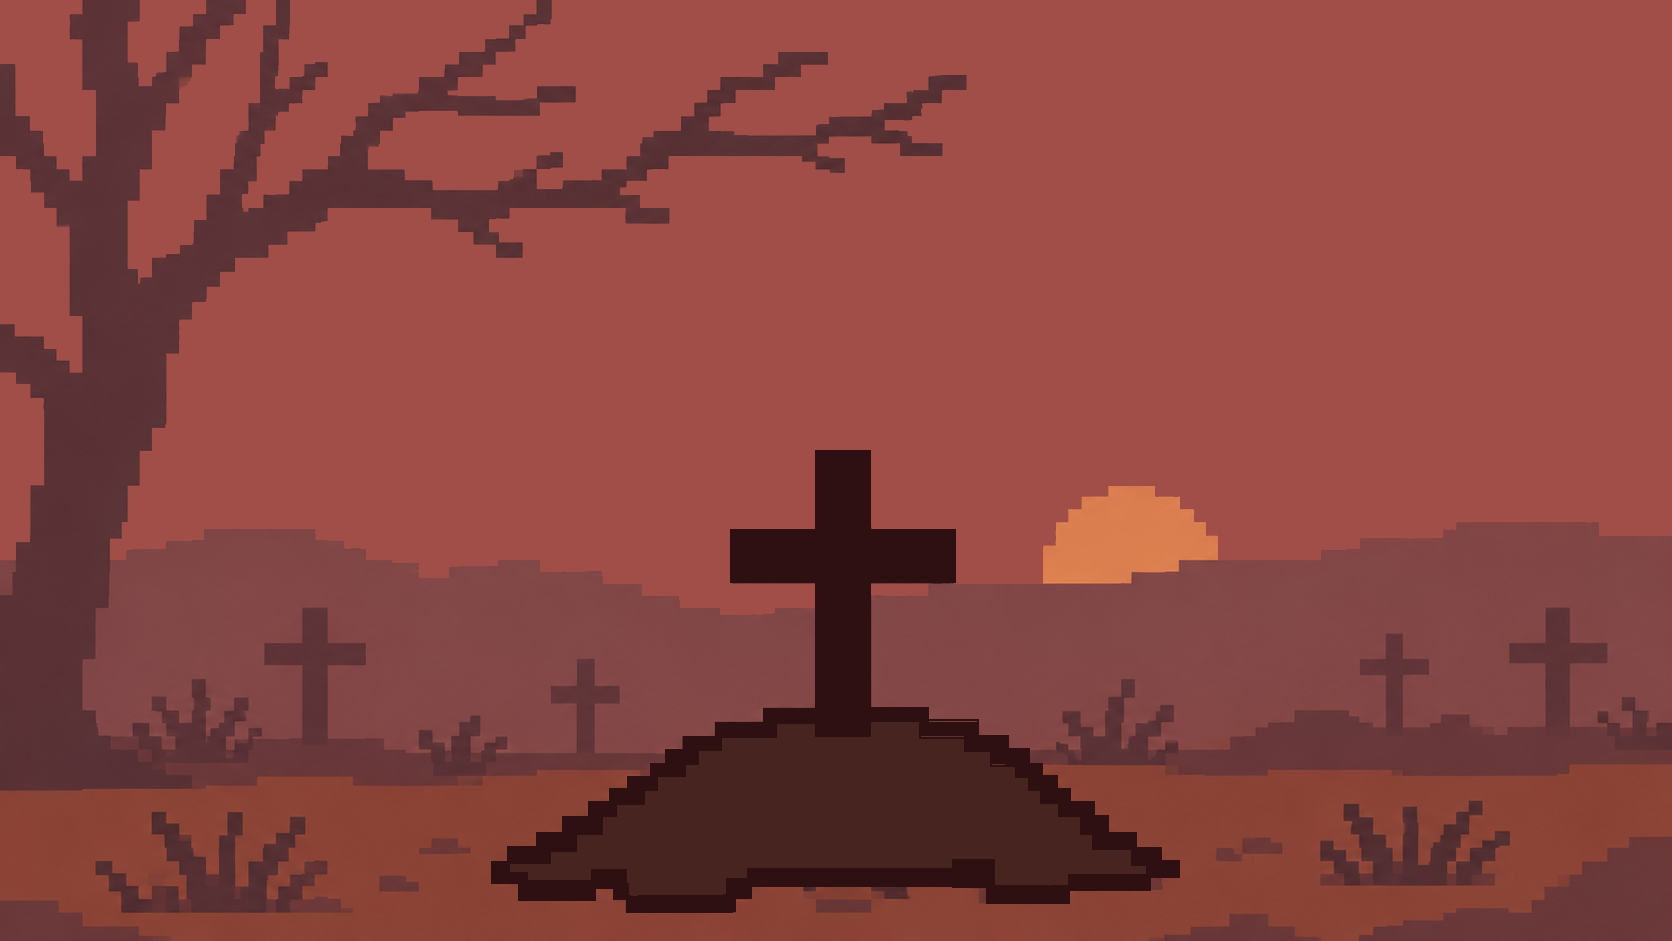
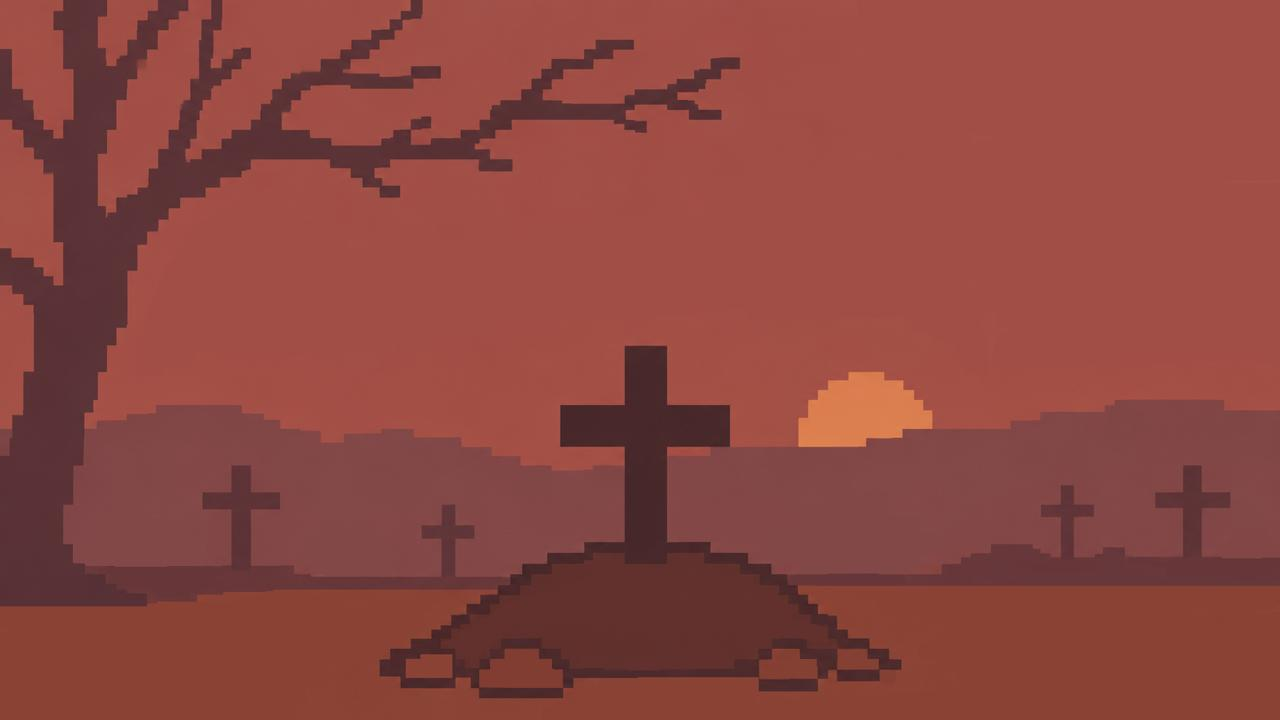
Ajustes pontuais

diff --git a/TCC/Assets/Scripts/Manager/AudioManager.Effects.cs b/TCC/Assets/Scripts/Manager/AudioManager.Effects.cs
@@ -4,7 +4,7 @@ using UnityEngine.SceneManagement;
 public sealed partial class AudioManager
 {
     private CurraisEffectsCatalog effectsCatalog;
-    private AudioSource oneShots, ambience, footsteps;
+    private AudioSource oneShots, sceneOneShots, ambience, footsteps;
     private string ambienceName;
     private float lastItemSoundTime = -1f;
     private string lastItemSound;
@@ -13,6 +13,8 @@ public sealed partial class AudioManager
     {
         effectsCatalog = Resources.Load<CurraisEffectsCatalog>("CurraisEffectsCatalog");
         oneShots = gameObject.AddComponent<AudioSource>();
+        sceneOneShots = gameObject.AddComponent<AudioSource>();
+        sceneOneShots.playOnAwake = false;
         ambience = gameObject.AddComponent<AudioSource>();
         oneShots.playOnAwake = ambience.playOnAwake = false;
         oneShots.spatialBlend = ambience.spatialBlend = 0f;
@@ -26,6 +28,7 @@ public sealed partial class AudioManager
 
     private void ChangeAmbience(Scene scene)
     {
+        sceneOneShots.Stop();
         StopAmbience();
         SetFootsteps(false, false);
         if (scene.name == "Currais") PlayAmbience("murmuro");
@@ -51,14 +54,15 @@ public sealed partial class AudioManager
         source.Play();
     }
 
-    public static void Play(string name, float gain = 1f, AudioClip fallback = null)
+    public static void Play(string name, float gain = 1f, AudioClip fallback = null, bool stopOnSceneChange = false)
     {
         if (instance == null) { Debug.LogWarning("CURRAIS AUDIO: controlador de efeitos nao inicializado: " + name); return; }
         if (instance.effectsCatalog == null) { Debug.LogWarning("CURRAIS AUDIO: catálogo ausente ao tocar: " + name); return; }
         AudioClip clip = instance.Resolve(name) ?? fallback;
         if (clip == null) { Debug.LogWarning("CURRAIS AUDIO: efeito sem AudioClip: " + name); return; }
-        instance.oneShots.volume = AudioVolumeChannel.EffectsVolume;
-        instance.oneShots.PlayOneShot(clip, Mathf.Clamp01(gain));
+        AudioSource source = stopOnSceneChange ? instance.sceneOneShots : instance.oneShots;
+        source.volume = AudioVolumeChannel.EffectsVolume;
+        source.PlayOneShot(clip, Mathf.Clamp01(gain));
     }
 
     // Evita o mesmo som duplicado quando dois sistemas notificam a mesma interacao no mesmo frame.
@@ -92,7 +96,7 @@ public sealed partial class AudioManager
 
     private void UpdateEffects()
     {
-        oneShots.volume = AudioVolumeChannel.EffectsVolume;
+        sceneOneShots.volume = oneShots.volume = AudioVolumeChannel.EffectsVolume;
         footsteps.volume = 0.28f * AudioVolumeChannel.EffectsVolume;
         if (ambience != null && ambience.isPlaying)
             ambience.volume = 0.24f * AudioVolumeChannel.EffectsVolume;

diff --git a/TCC/Assets/Scripts/Caminho/TutorialManager.cs b/TCC/Assets/Scripts/Caminho/TutorialManager.cs
@@ -177,7 +177,7 @@ public class TutorialManager : MonoBehaviour
     {
         if (CurrentStep == TutorialStep.ReturnBall)
         {
-            AudioManager.Play("criancasBrincando", 0.45f);
+            AudioManager.Play("criancasBrincando", 0.45f, stopOnSceneChange: true);
             SetStep(TutorialStep.Completed);
         }
     }
